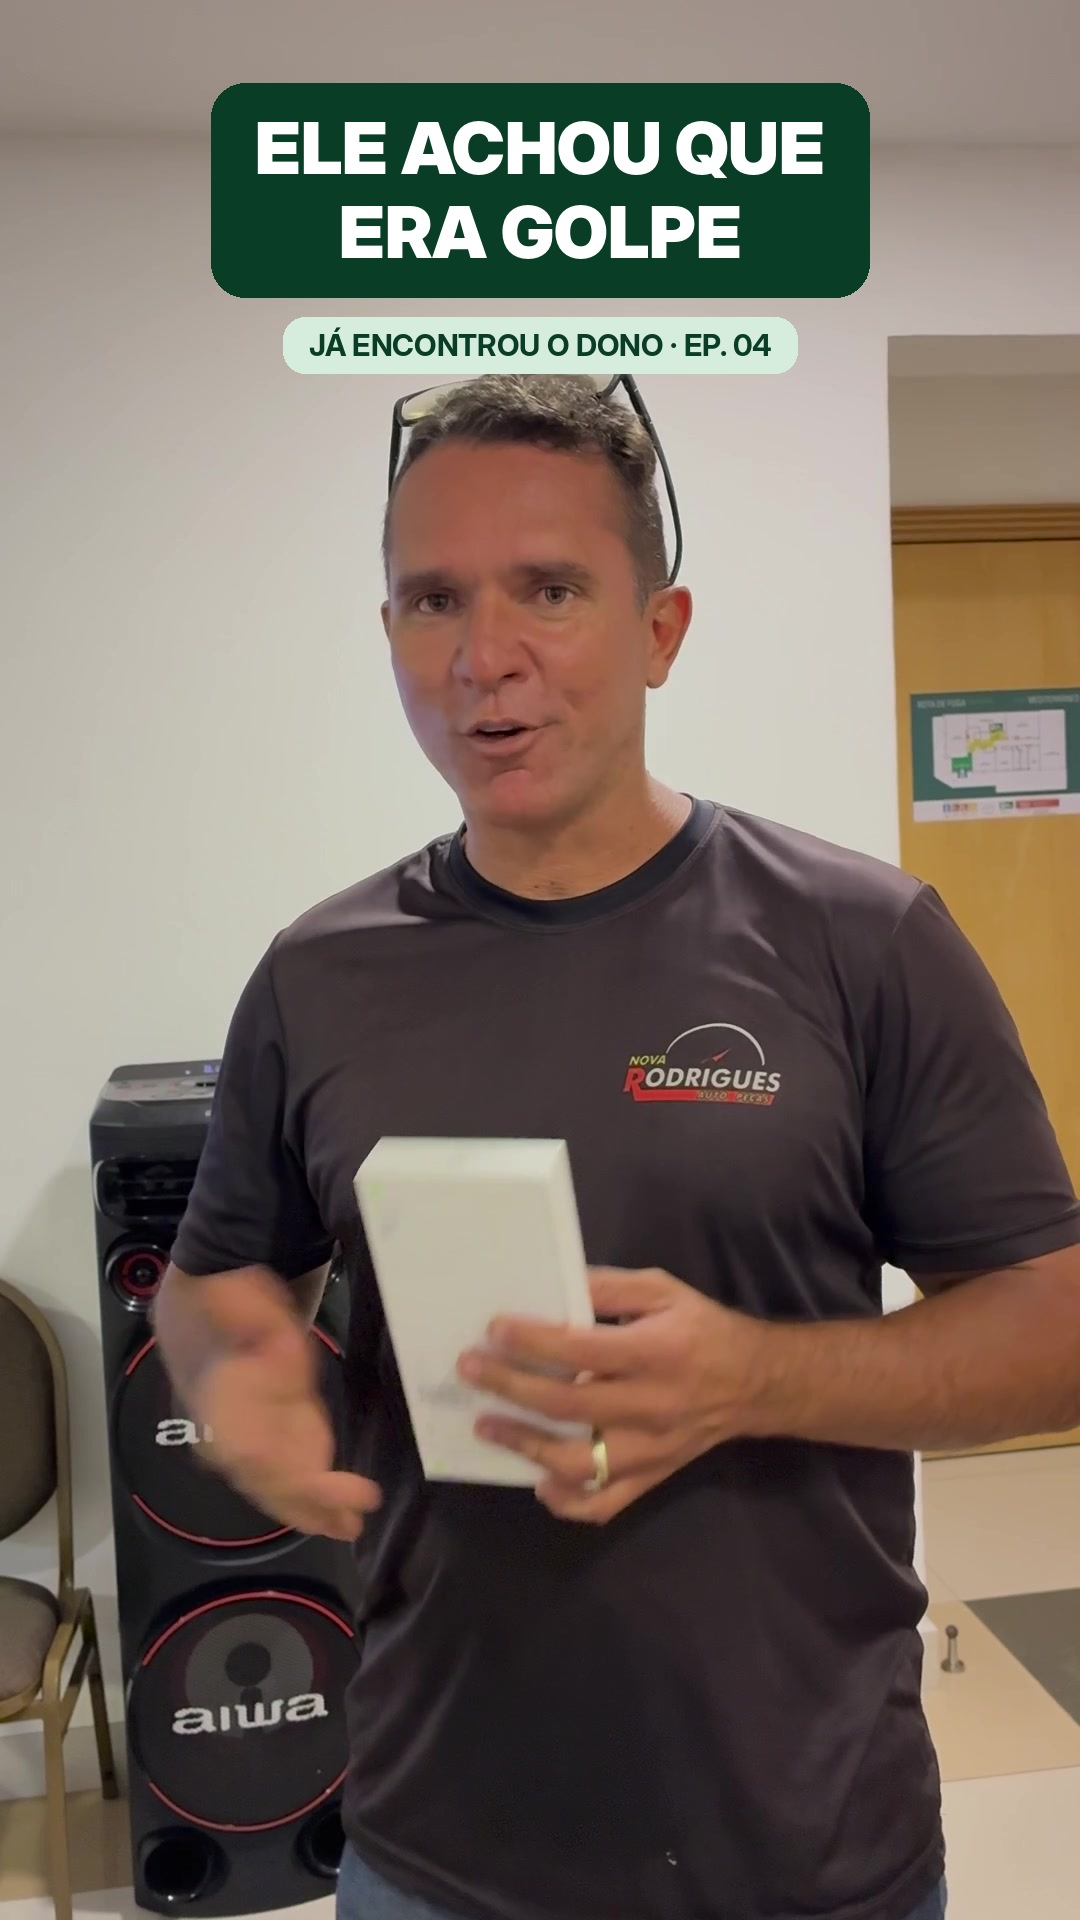
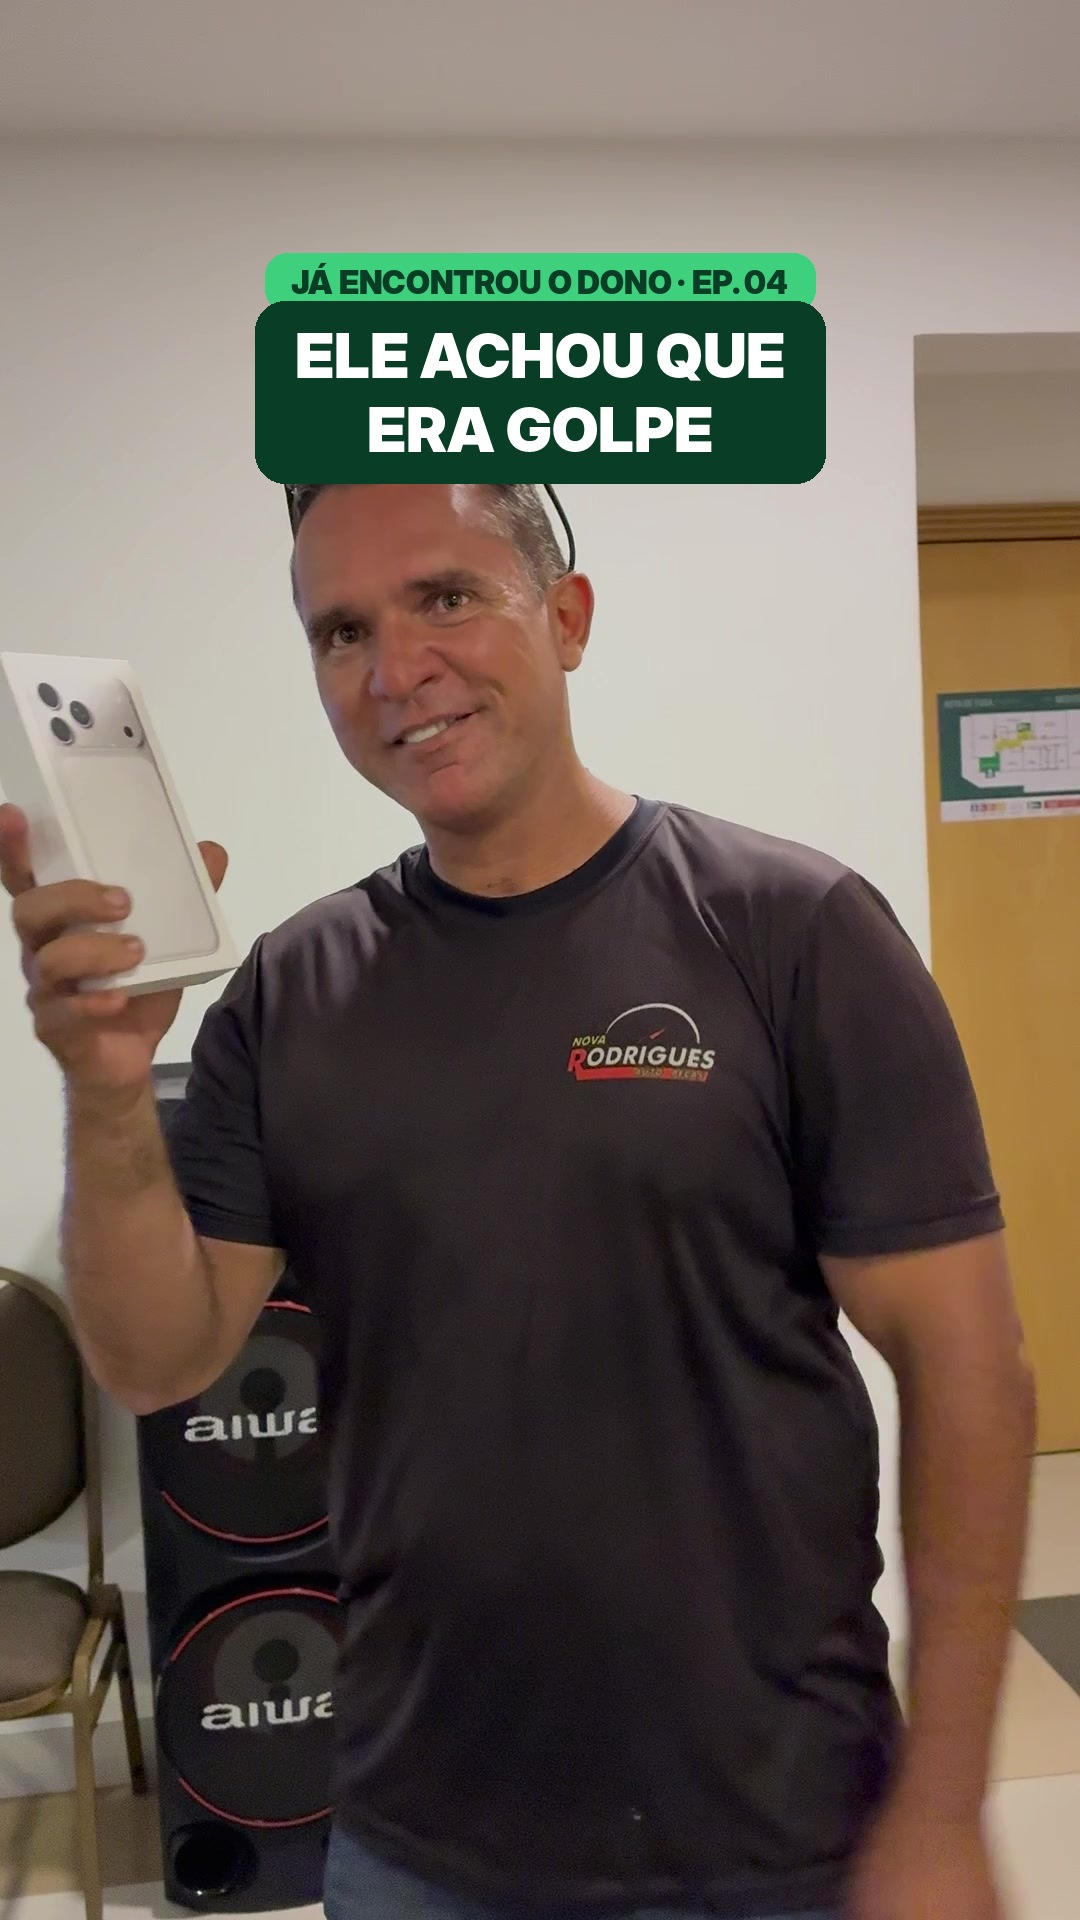
Regra das capas na grade do perfil (área 3:4) + capa do EP. 04 sorrindo dentro do padrão
Claude-Session: https://claude.ai/code/session_01JihU9VfVTYTrMqQpApFEjH

diff --git a/marketing/marca/PROMPT-MESTRE-VIDEOS-NATURAIS.md b/marketing/marca/PROMPT-MESTRE-VIDEOS-NATURAIS.md
@@ -18,3 +18,12 @@ Regra, medida com `ffmpeg -af ebur128` em cada trecho do arquivo FINAL (o mesmo 
 - Se não passar, não entrega e não agenda. Ajusta e mede de novo.
 - Junto com o vídeo, mandar para a Natália os números medidos e pedir que ela ouça COM FONE antes do ok.
 - (07/11) Nunca usar `loudnorm` no mesmo filtro com `amix duration=first`/sidechain: o atraso de ~3 s dele corta o fim do áudio. Tratar a voz num arquivo à parte, misturar depois, e conferir que a duração do áudio = duração do vídeo (ffprobe) antes de entregar.
+
+## Capa de Reels: área que aparece na grade do perfil (OBRIGATÓRIO, lição de 23/11)
+A capa é 1080x1920, mas a grade do perfil mostra só o miolo 3:4: **de y=240 a y=1680**. Em 23/11 as capas do
+"Arrematado de sábado EP. 01" e da "Novelinha EP. 01" subiram com o título em y≈190 e ficaram cortadas no perfil.
+- Todo texto e todo elemento importante da capa fica **entre y=260 e y=1660** (folga de 20 px).
+- Selo da série logo abaixo de y=260; título logo abaixo do selo; **nunca em cima do rosto**.
+- Foto de pessoa: **olho aberto e sorrindo** (escolher o quadro; conferir ampliado).
+- Antes de subir: gerar a prévia do corte (`img.crop((0,240,1080,1680))`) e olhar a capa inteira E o corte.
+- A capa é separada do vídeo: o título dentro do vídeo pode ficar no alto; a capa segue esta regra.
